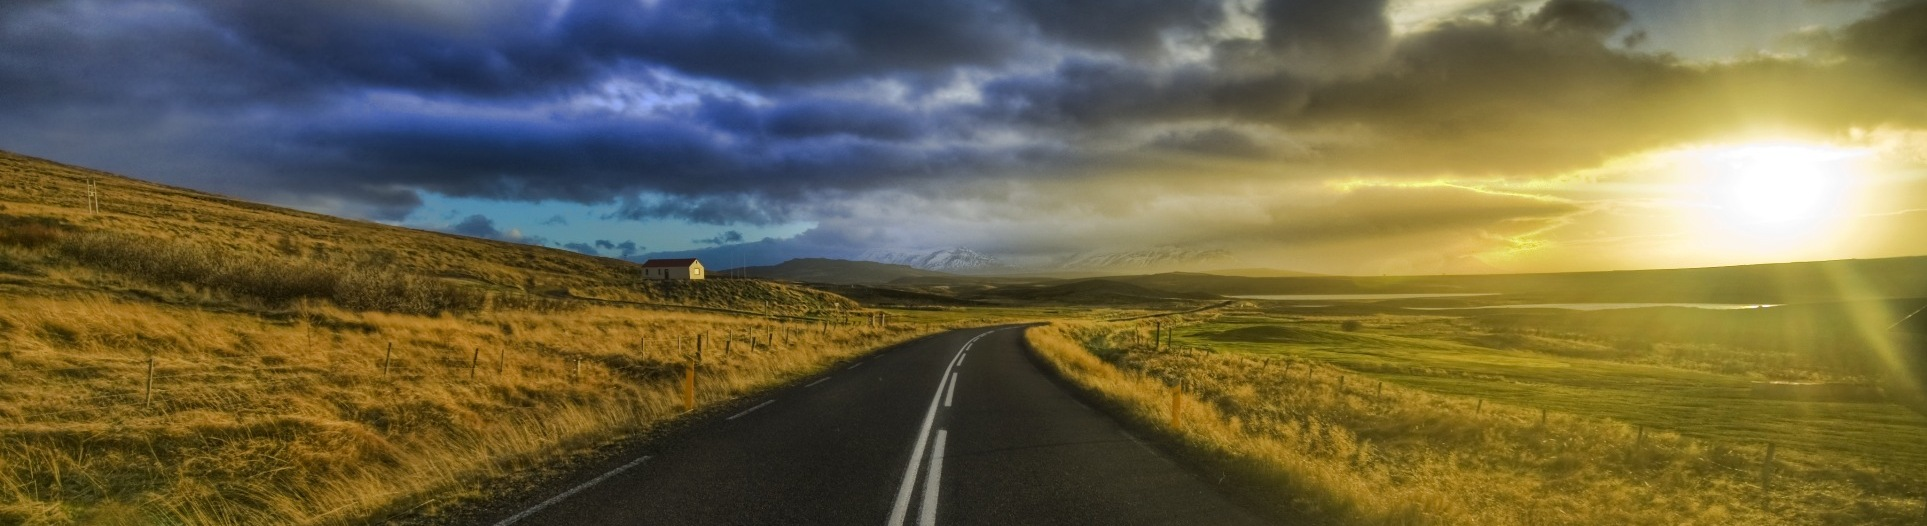
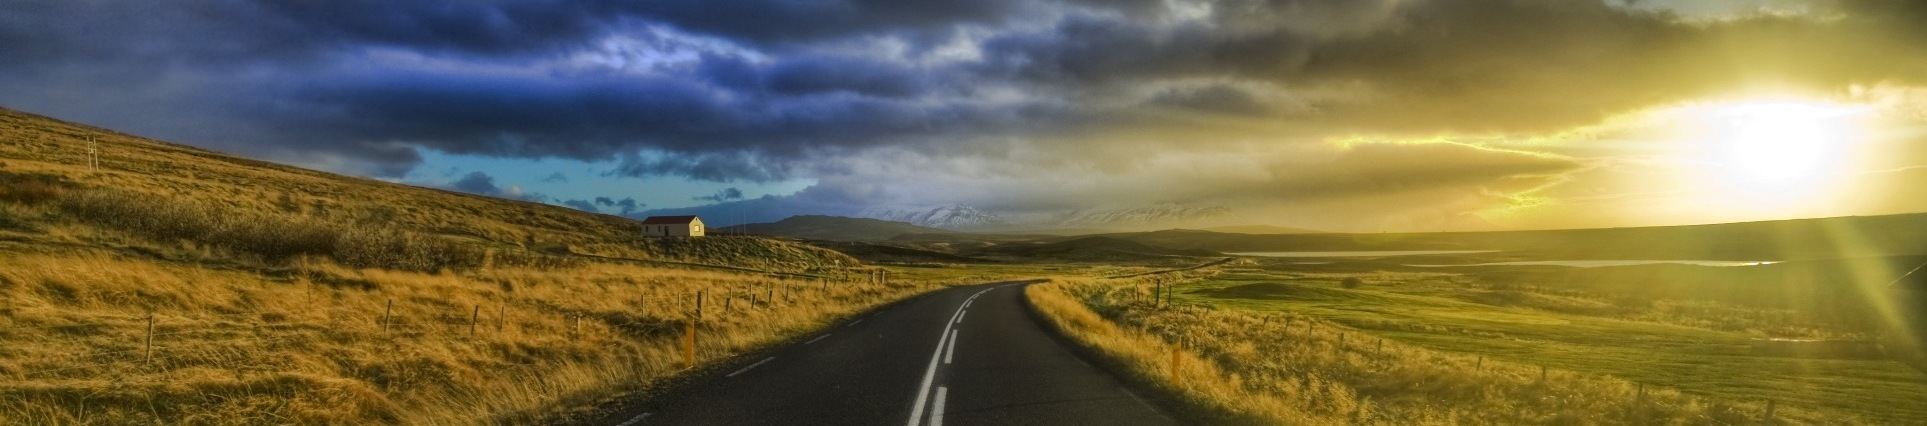
Minor changes in footbar

diff --git a/src/main/frontend/src/components/bars/Footer.jsx b/src/main/frontend/src/components/bars/Footer.jsx
@@ -1,32 +1,25 @@
 import {useLocale} from "../utils/login/LoginProvider";
 import AccessLevelChangeHandler from "../utils/handlers/AccessLevelChangeHandler";
-import {Col} from "react-bootstrap";
 import {withNamespaces} from "react-i18next";
+import i18n from "../../i18n";
 
 function Footer(props) {
     const {token, currentRole} = useLocale();
     const {roles} = props;
 
     return (
-        <div className={"container-fluid d-flex position-fixed align-items-center pb-2 pt-1 footer"}>
-                <div>
-                    {token !== null && token !== '' ? <div><AccessLevelChangeHandler levels={roles}/></div> : ""}
-                </div>
-                <div className="ml-auto">
-                    <span className={"px-2"}>&copy; Dominik Kasierski</span>
-                </div>
-
-            {/*<div className={"row"}>*/}
-            {/*    <Col xs={12} className={"d-flex align-items-center flex-wrap flex-row"}>*/}
-            {/*        <div>*/}
-            {/*            {token !== null && token !== '' ? <div><AccessLevelChangeHandler levels={roles}/></div> : ""}*/}
-            {/*        </div>*/}
-            {/*        <div className={"d-none d-sm-flex"}>*/}
-            {/*            {token !== null && token !== '' ? <span className={"px-2"}>|</span> : ""}*/}
-            {/*            &copy; Dominik Kasierski*/}
-            {/*        </div>*/}
-            {/*    </Col>*/}
-            {/*</div>*/}
+        <div className={"container-fluid d-flex position-fixed align-items-center footer"}>
+            <div>
+                {token !== null && token !== '' ?
+                    <span className={"mr-3"}>{i18n.t("footer.role") + i18n.t(currentRole)}</span> : ""}
+            </div>
+            <div>
+                {token !== null && token !== '' ?
+                    <AccessLevelChangeHandler levels={roles}/> : ""}
+            </div>
+            <div className="ml-auto mr-2">
+                <span>&copy; Dominik Kasierski</span>
+            </div>
         </div>
     );
 }

diff --git a/src/main/frontend/src/components/utils/handlers/AccessLevelChangeHandler.jsx b/src/main/frontend/src/components/utils/handlers/AccessLevelChangeHandler.jsx
@@ -39,22 +39,24 @@ function AccessLevelChangeHandler(props) {
             headers: {
                 "Authorization": token
             }
-        }).then(() => dispatchSuccessNotification({message: i18n.t("footer.role.change") + i18n.t(e)}))
+        }).then(() => dispatchSuccessNotification({message: i18n.t("footer.role.changed") + i18n.t(e)}))
             .catch((err) => ResponseErrorsHandler(err, dispatchDangerNotification))
     }
 
     return (
-        <div className={"d-flex ml-3"}>
-            <Dropdown onSelect={handleSelectLevel}>
-                <DropdownToggle id="dropdown-basic" key='up' drop='up' className={"footer"} variant="Secondary">
-                    <span>{i18n.t("footer.role")}</span>
-                </DropdownToggle>
-                <DropdownMenu>
-                    {levels.map((level) => (
-                        <Dropdown.Item eventKey={level} className="item">{i18n.t(level)}</Dropdown.Item>
-                    ))}
-                </DropdownMenu>
-            </Dropdown>
+
+        <div className={"d-flex"}>
+            {levels.length > 1 ?
+                <Dropdown onSelect={handleSelectLevel}>
+                    <DropdownToggle id="dropdown-basic" className={"footer py-0"} variant="Secondary">
+                        <span>{i18n.t("footer.role.change")}</span>
+                    </DropdownToggle>
+                    <DropdownMenu>
+                        {levels.map((level) => (
+                            <Dropdown.Item eventKey={level} className="item">{i18n.t(level)}</Dropdown.Item>
+                        ))}
+                    </DropdownMenu>
+                </Dropdown> : ""}
         </div>
     )
 }

diff --git a/src/main/frontend/src/components/home/Home.jsx b/src/main/frontend/src/components/home/Home.jsx
@@ -1,4 +1,4 @@
-import road from '../../images/road1.jpg';
+import road from '../../images/road.jpg';
 import motorcycle from '../../images/motorcycle.jpg';
 import car from '../../images/car.jpg';
 import truck from '../../images/truck.jpg';
@@ -9,7 +9,7 @@ function Home(props) {
     const {t, i18n} = props
 
     return (
-        <Container fluid className={"dim pb-2"}>
+        <Container fluid className={"dim pb-4"}>
             <Row className={"px-0 justify-content-center"}>
                 <img className="img-fluid w-100" src={road} alt="road"/>
                 <h1 className={"display-4 my-3"}>{i18n.t("landing.page.courses")}</h1>

diff --git a/src/main/frontend/src/App.scss b/src/main/frontend/src/App.scss
@@ -15,7 +15,8 @@
 .footer {
   background-color: rgb(15, 15, 15);
   color: rgb(255, 255, 255);
-  font-size: 1.1rem;
+  font-size: 1.2rem;
+  min-height: 45px;
   bottom: 0;
 }
 

diff --git a/src/main/java/pl/lodz/p/it/dk/mok/managers/AccountManager.java b/src/main/java/pl/lodz/p/it/dk/mok/managers/AccountManager.java
@@ -297,7 +297,7 @@ public class AccountManager {
         accountFacade.edit(account);
     }
 
-    @RolesAllowed("editOwnLanguage")
+    @RolesAllowed("editLanguage")
     public void editLanguage(String login, String language) throws BaseException {
         Account account = accountFacade.findByLogin(login);
         account.setLanguage(language);
